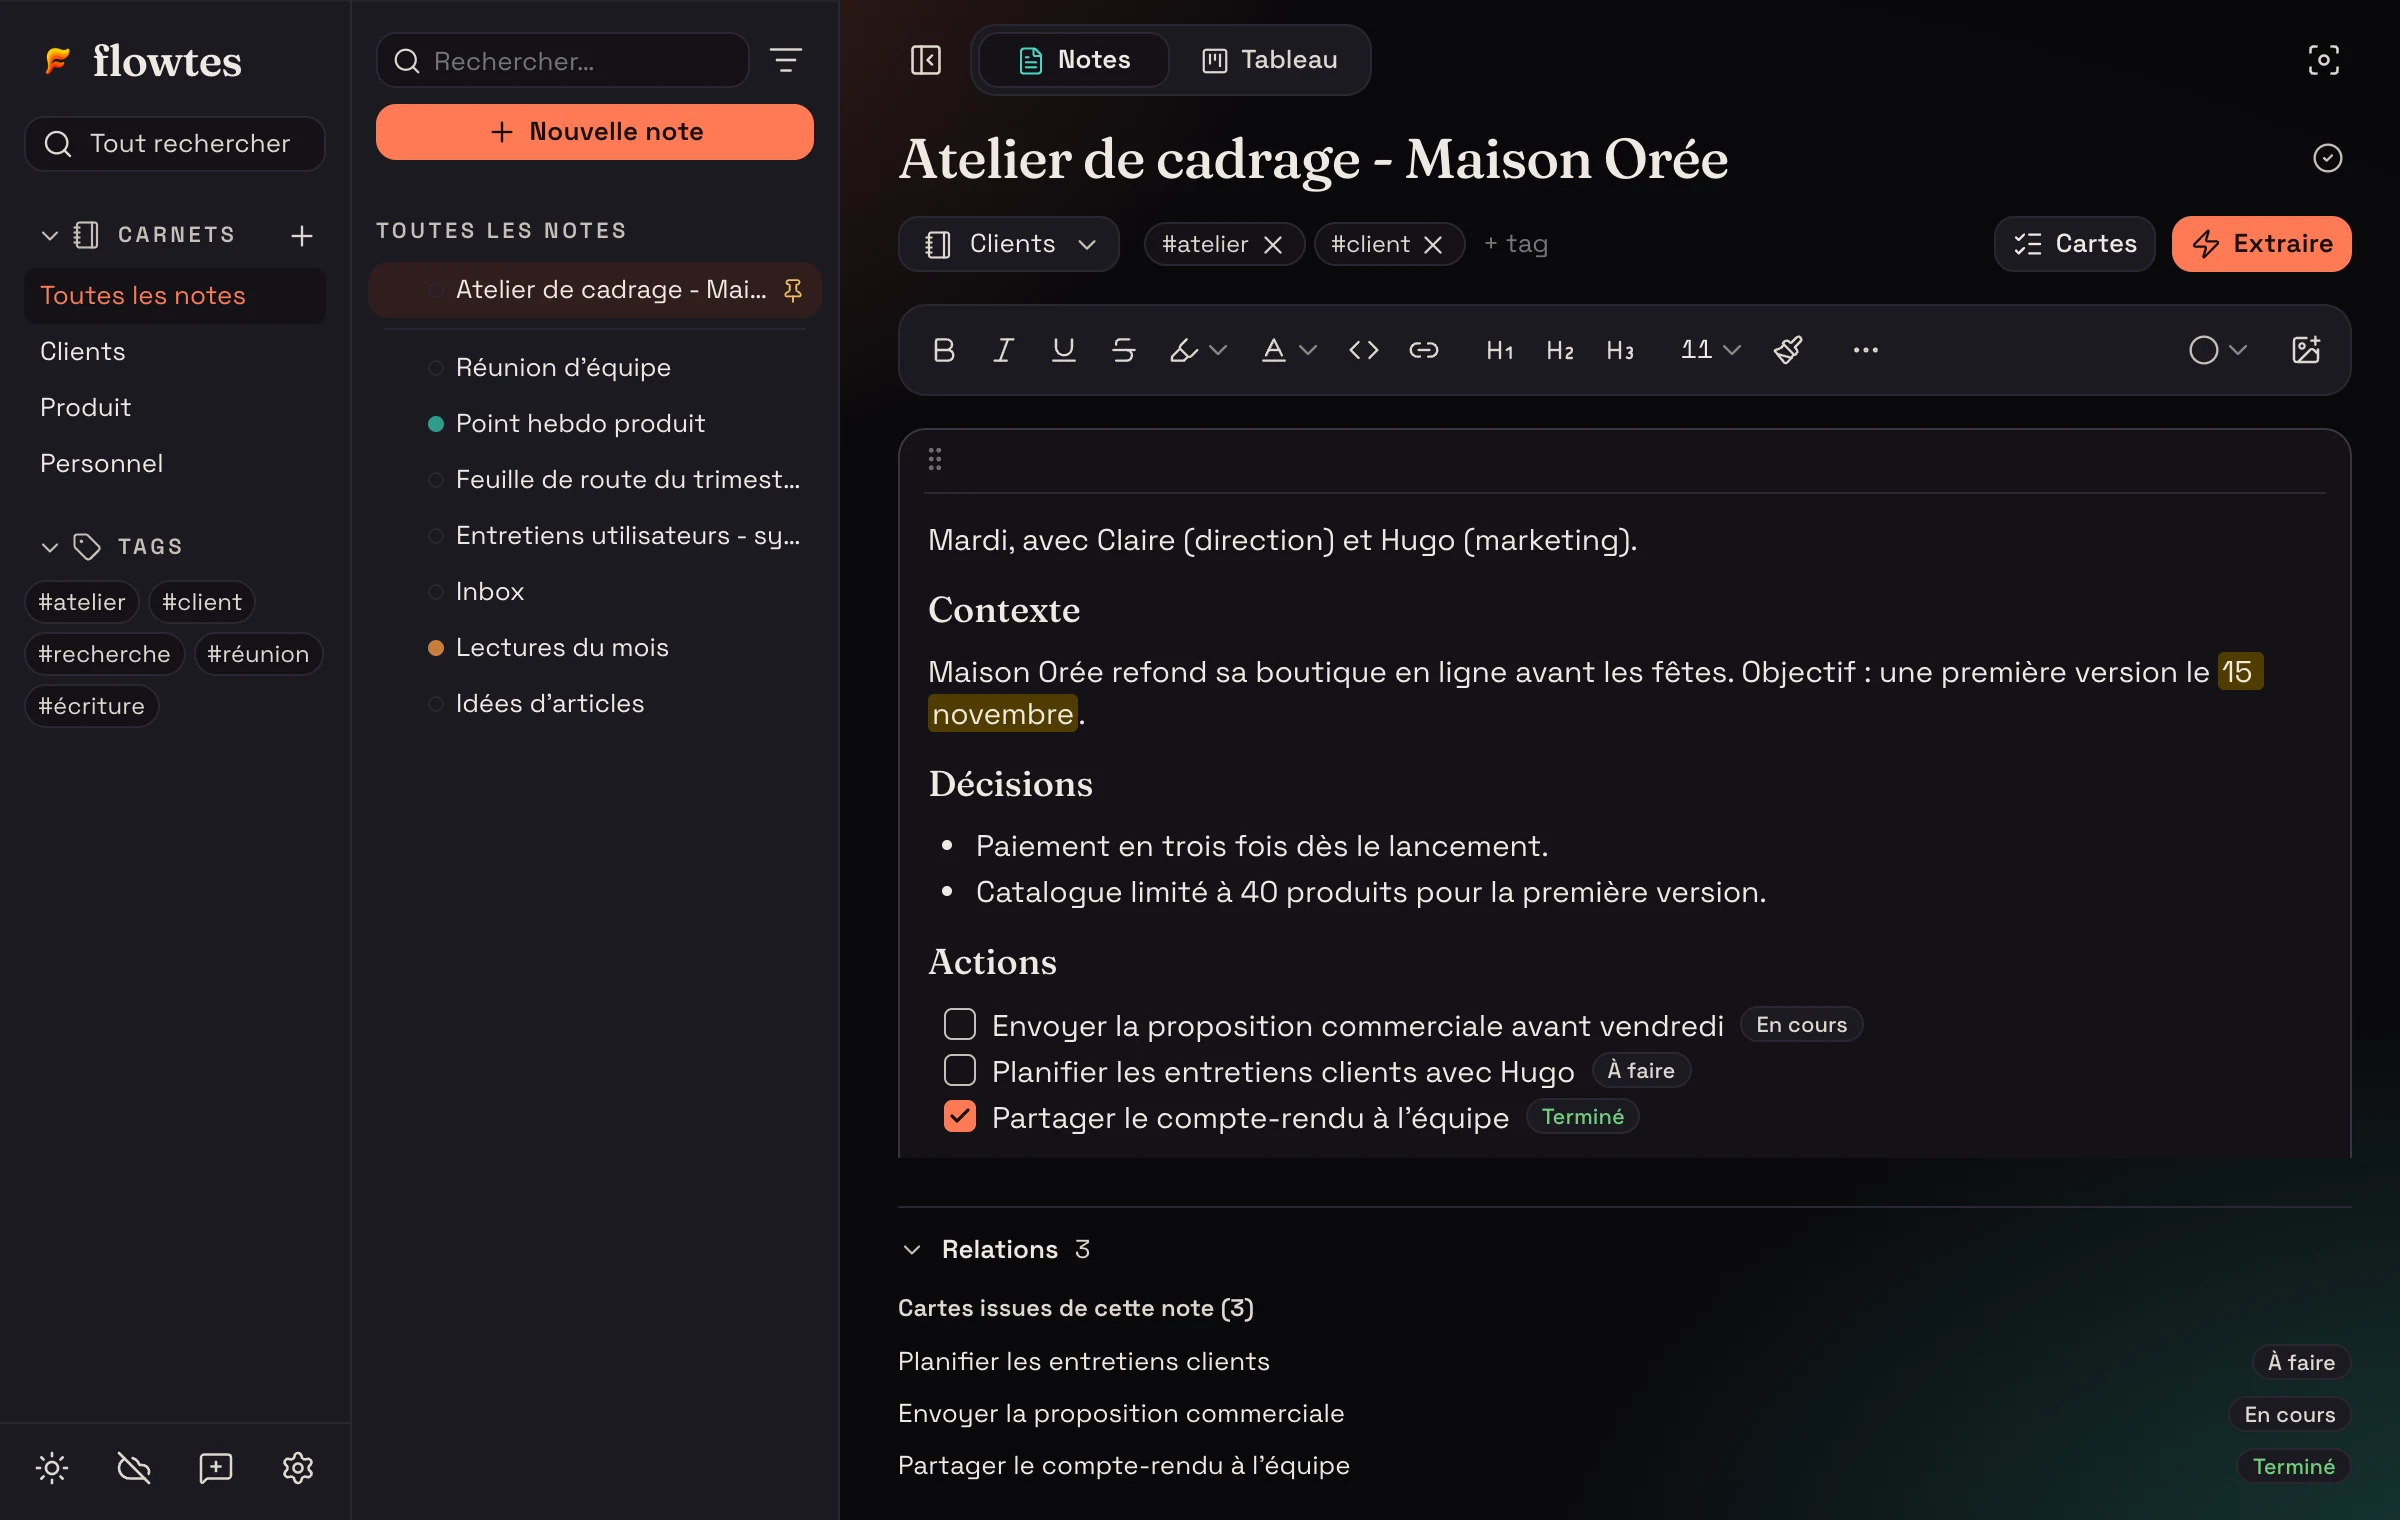
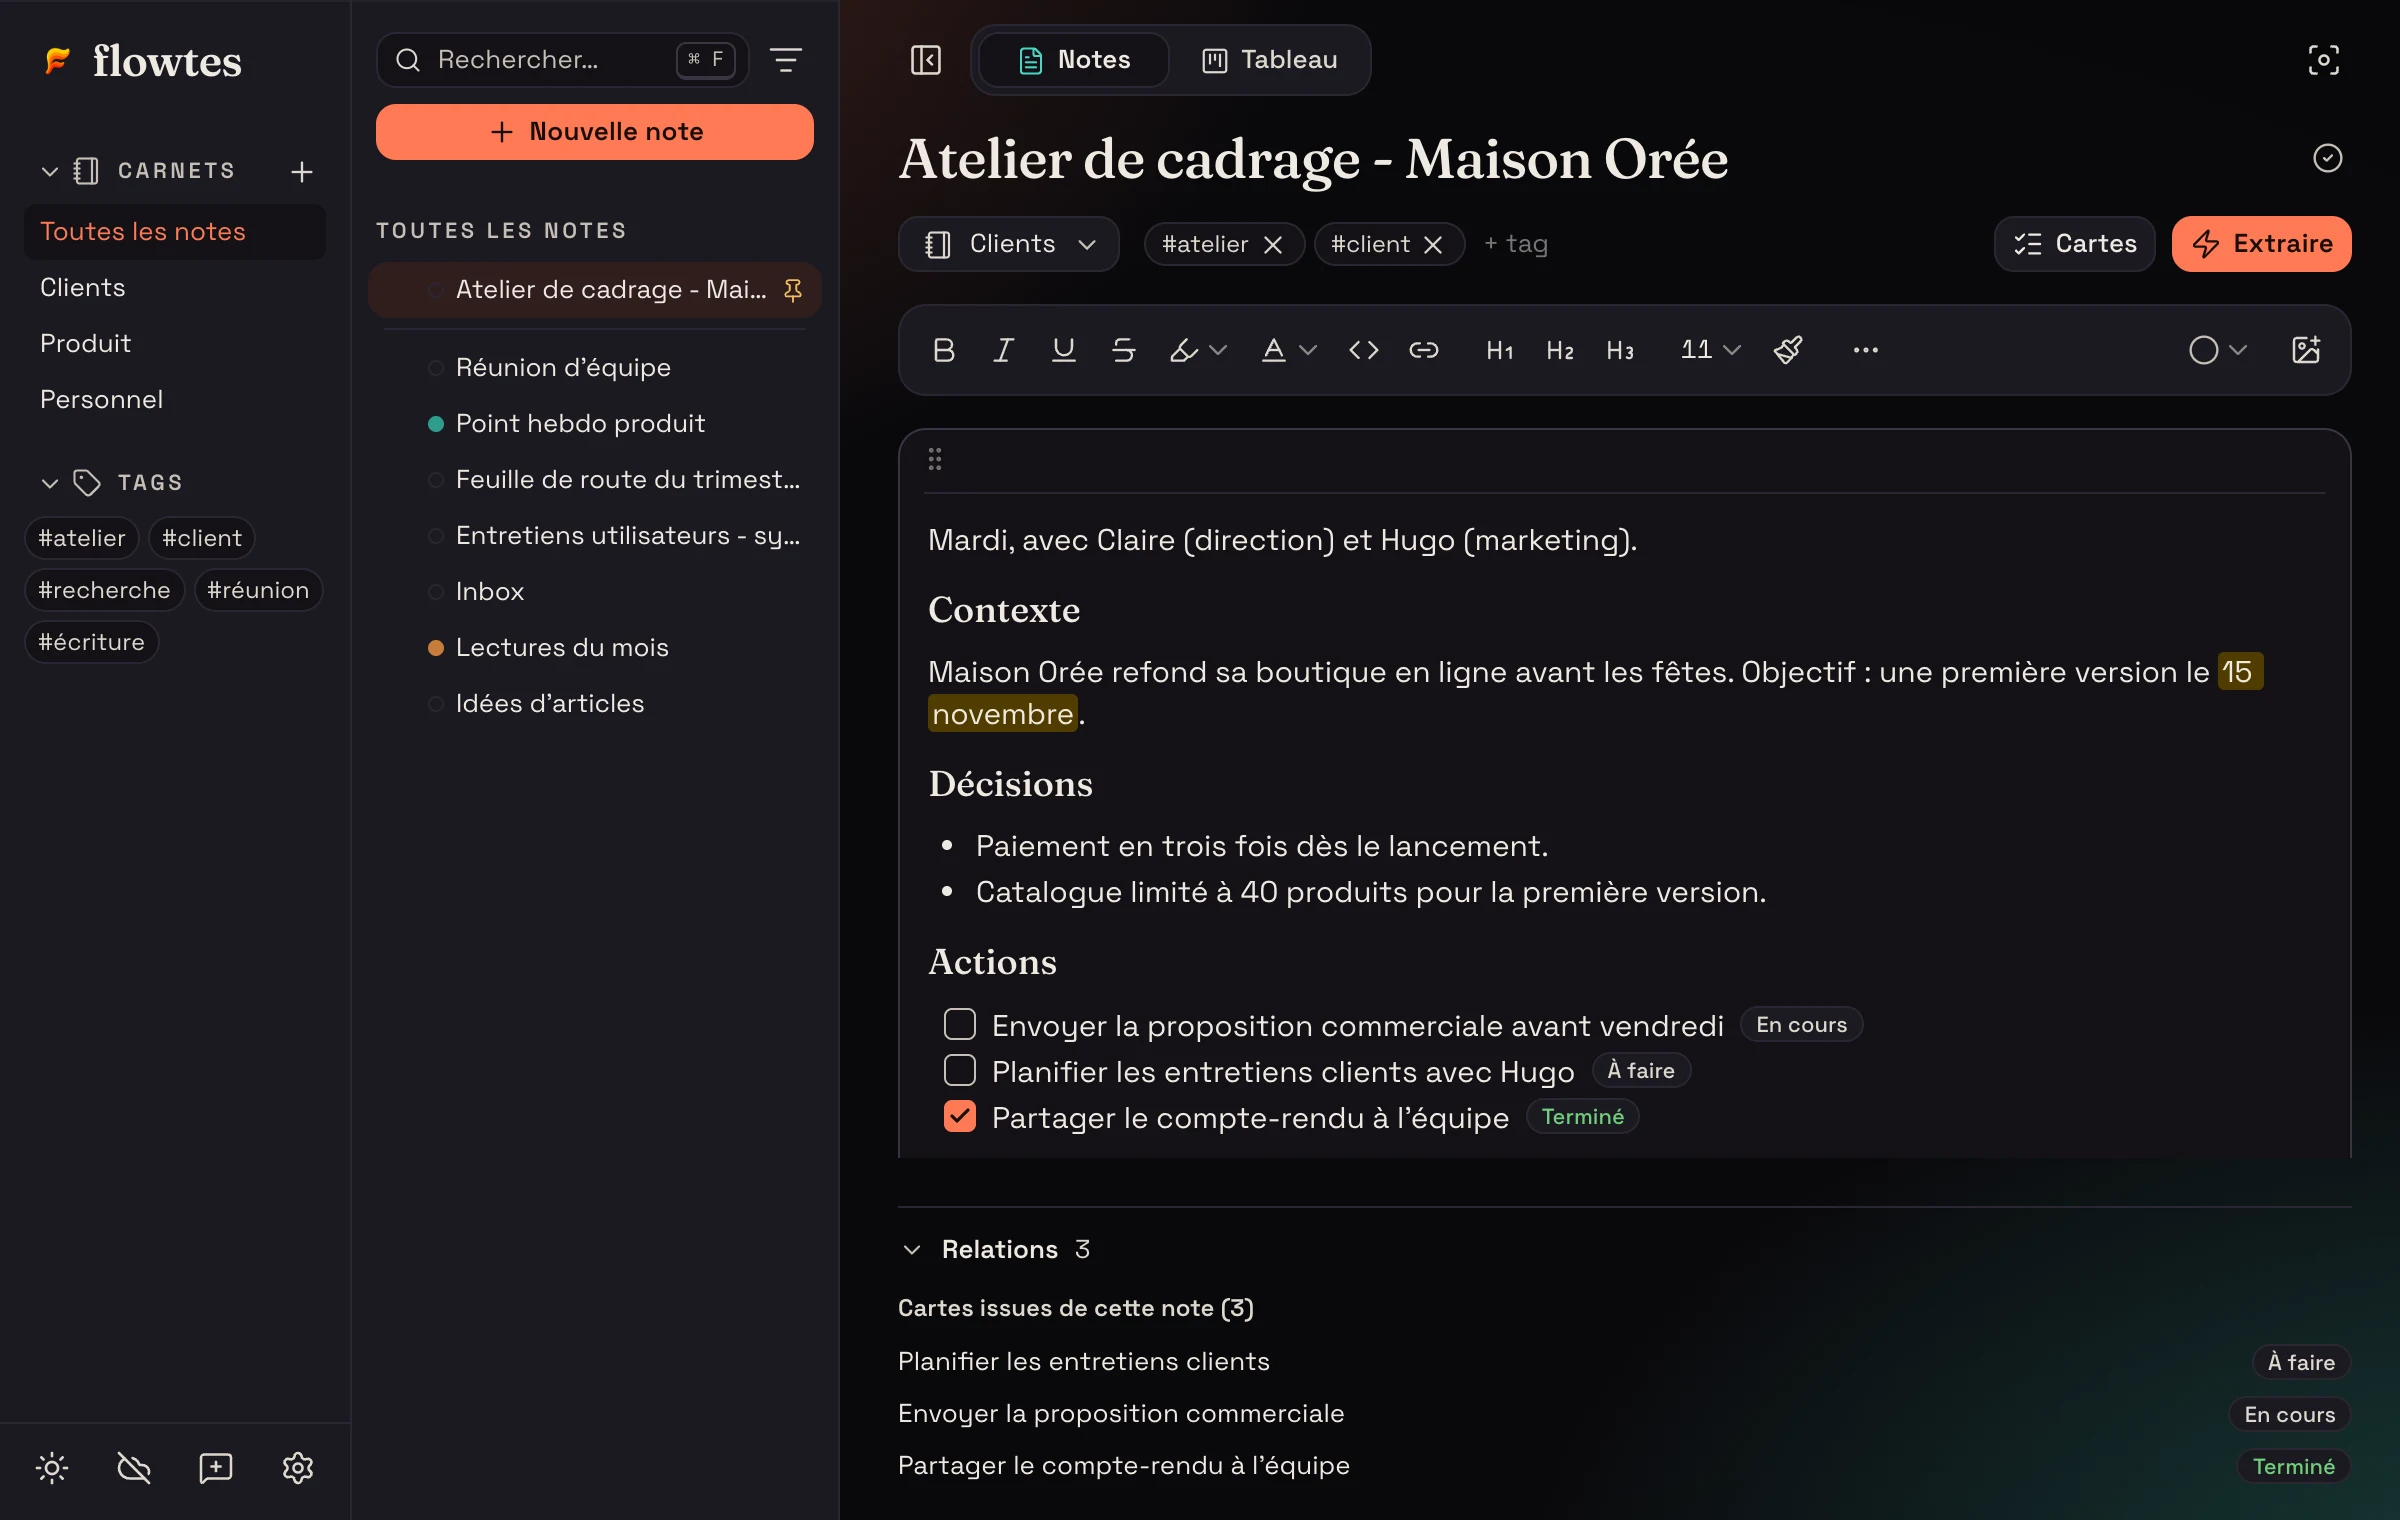
Vitrine de la version 0.9.3

Changed region(s): [[0.0, 0.0928, 0.125, 0.4638], [0.1562, 0.0309, 0.25, 0.0618], [0.2812, 0.0309, 0.3125, 0.0618]]

diff --git a/README.md b/README.md
@@ -10,14 +10,14 @@ Une app de bureau qui réunit vos notes et votre tableau de tâches.<br>
 Elle repère les actions dans ce que vous écrivez. Vos données restent sur votre ordinateur.
 
 <p>
-  <a href="https://github.com/Vitopya/flowtes-releases/releases/download/v0.9.2/Flowtes_0.9.2_x64-setup.exe"><b>Télécharger pour Windows</b></a>
+  <a href="https://github.com/Vitopya/flowtes-releases/releases/download/v0.9.3/Flowtes_0.9.3_x64-setup.exe"><b>Télécharger pour Windows</b></a>
   &nbsp;·&nbsp;
-  <a href="https://github.com/Vitopya/flowtes-releases/releases/download/v0.9.2/Flowtes_0.9.2_aarch64.dmg"><b>Mac à puce Apple</b></a>
+  <a href="https://github.com/Vitopya/flowtes-releases/releases/download/v0.9.3/Flowtes_0.9.3_aarch64.dmg"><b>Mac à puce Apple</b></a>
   &nbsp;·&nbsp;
-  <a href="https://github.com/Vitopya/flowtes-releases/releases/download/v0.9.2/Flowtes_0.9.2_x64.dmg"><b>Mac Intel</b></a>
+  <a href="https://github.com/Vitopya/flowtes-releases/releases/download/v0.9.3/Flowtes_0.9.3_x64.dmg"><b>Mac Intel</b></a>
 </p>
 
-<sub>Version 0.9.2 du 12 octobre 2026 · Gratuit · Sans compte · Fonctionne hors ligne</sub>
+<sub>Version 0.9.3 du 12 octobre 2026 · Gratuit · Sans compte · Fonctionne hors ligne</sub>
 
 </div>
 
@@ -62,9 +62,9 @@ Après une réunion, on relit ses notes, on repère les actions, puis on les rec
 
 | Votre ordinateur | Fichier à télécharger |
 |---|---|
-| Windows 10 ou 11 (64 bits) | [Flowtes_0.9.2_x64-setup.exe](https://github.com/Vitopya/flowtes-releases/releases/download/v0.9.2/Flowtes_0.9.2_x64-setup.exe) |
-| Mac à puce Apple (M1 et suivants) | [Flowtes_0.9.2_aarch64.dmg](https://github.com/Vitopya/flowtes-releases/releases/download/v0.9.2/Flowtes_0.9.2_aarch64.dmg) |
-| Mac Intel | [Flowtes_0.9.2_x64.dmg](https://github.com/Vitopya/flowtes-releases/releases/download/v0.9.2/Flowtes_0.9.2_x64.dmg) |
+| Windows 10 ou 11 (64 bits) | [Flowtes_0.9.3_x64-setup.exe](https://github.com/Vitopya/flowtes-releases/releases/download/v0.9.3/Flowtes_0.9.3_x64-setup.exe) |
+| Mac à puce Apple (M1 et suivants) | [Flowtes_0.9.3_aarch64.dmg](https://github.com/Vitopya/flowtes-releases/releases/download/v0.9.3/Flowtes_0.9.3_aarch64.dmg) |
+| Mac Intel | [Flowtes_0.9.3_x64.dmg](https://github.com/Vitopya/flowtes-releases/releases/download/v0.9.3/Flowtes_0.9.3_x64.dmg) |
 
 Puce Apple ou Intel ? Menu Pomme > À propos de ce Mac : la ligne « Puce » désigne un Mac à puce Apple, la ligne « Processeur » un Mac Intel.
 
@@ -79,16 +79,13 @@ Puce Apple ou Intel ? Menu Pomme > À propos de ce Mac : la ligne « Puce » dé
 
 Toutes les versions et leurs notes : [page des versions](https://github.com/Vitopya/flowtes-releases/releases).
 
-## Nouveautés de la version 0.9.2
+## Nouveautés de la version 0.9.3
 
-- Recherche globale
-- Corbeille des cartes
-- Sélection multiple de cartes
-- Vider une colonne
-- Colonnes déplaçables et repliables
-- Contrôle des doublons avant l'ajout au tableau
+- Une seule recherche
+- Menus plus faciles à parcourir
+- Formulaire de retour allégé
 
-[Le détail de la version 0.9.2](https://github.com/Vitopya/flowtes-releases/releases/tag/v0.9.2)
+[Le détail de la version 0.9.3](https://github.com/Vitopya/flowtes-releases/releases/tag/v0.9.3)
 
 ## Questions fréquentes
 
